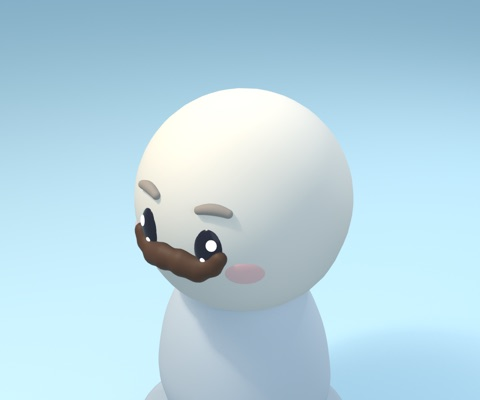
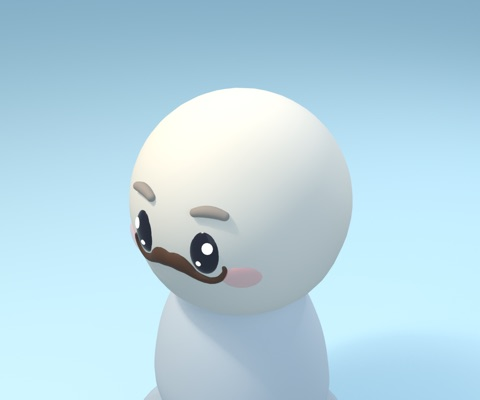
Mustache: lifted, slimmed and laid close to the face, so every mouth shows
The standalone mustache sat low and stood 3.7 cm off the face, so from the game's camera
it hid the mouth and covered the lower third of the eyes. Its lower edge is now 1.5 cm
higher (7.5 mm above the smile's corners), it stands 1.1 cm off the face, and it clears
the eyes: a plump middle with a dip under the nose and tips curling up outside the eyes.
The smile, open and flat mouths all show at 0, 24 and 40 degrees.

899 tris / 39 KB, about the same as before. The claim moves to its new author; the
catalog entry keeps the original credit with a revision note, like the beard.

diff --git a/assets/blender/characters/mustache.py b/assets/blender/characters/mustache.py
@@ -1,7 +1,10 @@
-"""Mustache: a chunky handlebar mustache sculpted as a soft SDF: two plump lobes meeting under
-the eyes, sweeping out and curling up at the tips. `Hair`. Sits on the face above the mouth;
-pivot at the head centre."""
-import numpy as np
+"""Mustache: a curly handlebar mustache sculpted as a soft SDF: a plump stroke each side,
+meeting in a little dip under the nose, sweeping out and down past the mouth corners and
+curling up at the tips beside the eyes. It lies close to the face with a thin lower edge,
+clear of the rig's mouth (face.mouth in rig-dimensions.json), so every mouth shape reads
+from the front and from the game camera up to 40° above. `Hair`. Sits on the face above
+the mouth; pivot at the head centre."""
+from mathutils import Vector
 
 from characters import _kit as kit
 from characters import _monet as mo
@@ -10,26 +13,39 @@ import lib
 
 NAME = "mustache"
 COLOR = "#5A3825"
-FY = -0.048
+# One side's stroke, middle to tip: (face x, face y, visible half-height, how far it stands
+# proud of the face). Each point is a sphere sunk into the face, so the stroke is a low
+# rounded pad: seen from 40° above it hides only ~3 mm of face below its lower edge, and over
+# the mouth (|x| < 0.045) that edge stays above the smile's corners (face y -0.076). Outside
+# the mouth the arms dip under the eyes (2 mm+ clear) and curl up past their outer edges.
+STROKE = [(0.0, -0.045, 0.017, 0.009), (0.022, -0.044, 0.023, 0.0105),
+          (0.042, -0.051, 0.018, 0.0095), (0.06, -0.064, 0.012, 0.008),
+          (0.08, -0.073, 0.0105, 0.007), (0.098, -0.075, 0.009, 0.0065),
+          (0.114, -0.068, 0.0078, 0.006), (0.124, -0.056, 0.0066, 0.0055),
+          (0.129, -0.044, 0.0055, 0.005), (0.128, -0.033, 0.0045, 0.0045)]
+FY = -0.05
 META = mo.meta("Mustache", "character-face", "Chunky curly handlebar mustache",
                ["facial-hair", "mustache", "face"], tintable=("Hair",),
-               anchors_bl={"center": tuple(kit.face_point(0, FY, 0.02))})
+               anchors_bl={"center": tuple(kit.face_point(0, FY, 0.01))},
+               notes="Revised by Claude Rodin: lifted, slimmed and laid closer to the face so "
+                     "every mouth reads from the game camera, from the front up to 40° above.")
 
 
 def sdf():
-    lobes = []
+    # Smooth the stroke (all four numbers) so the chain of round cones has no lumps.
+    pts = kit.catmull([Vector(p) for p in STROKE], samples=36)
+    sides = []
     for s in (1, -1):
-        for fx, fy, r in ((0.024, FY, 0.034), (0.062, FY - 0.008, 0.031), (0.097, FY + 0.006, 0.023),
-                          (0.113, FY + 0.03, 0.018)):
-            c = kit.face_point(s * fx, fy, 0.004)
-            lobes.append((tuple(c), r))
-    cs = [c for c, _ in lobes]
-    rs = [r for _, r in lobes]
+        centres, radii = [], []
+        for fx, fy, h, proud in pts:
+            r = (h * h + proud * proud) / (2 * proud)     # sphere through the cap's rim
+            centres.append(tuple(kit.face_point(s * fx, fy, proud - r)))
+            radii.append(r)
+        sides.append((centres, radii))
 
     def fn(P):
-        d = kit.sd_spheres(P, cs, rs, 0.018)
-        # Flatten against the face a little (thinner front-to-back than tall).
-        return d + 0.004 * np.clip(-P[:, 1] - kit.R, 0, None) * 10
+        return kit.smin(kit.sd_lock(P, *sides[0], k=0.002), kit.sd_lock(P, *sides[1], k=0.002),
+                        0.004)
     return fn
 
 
